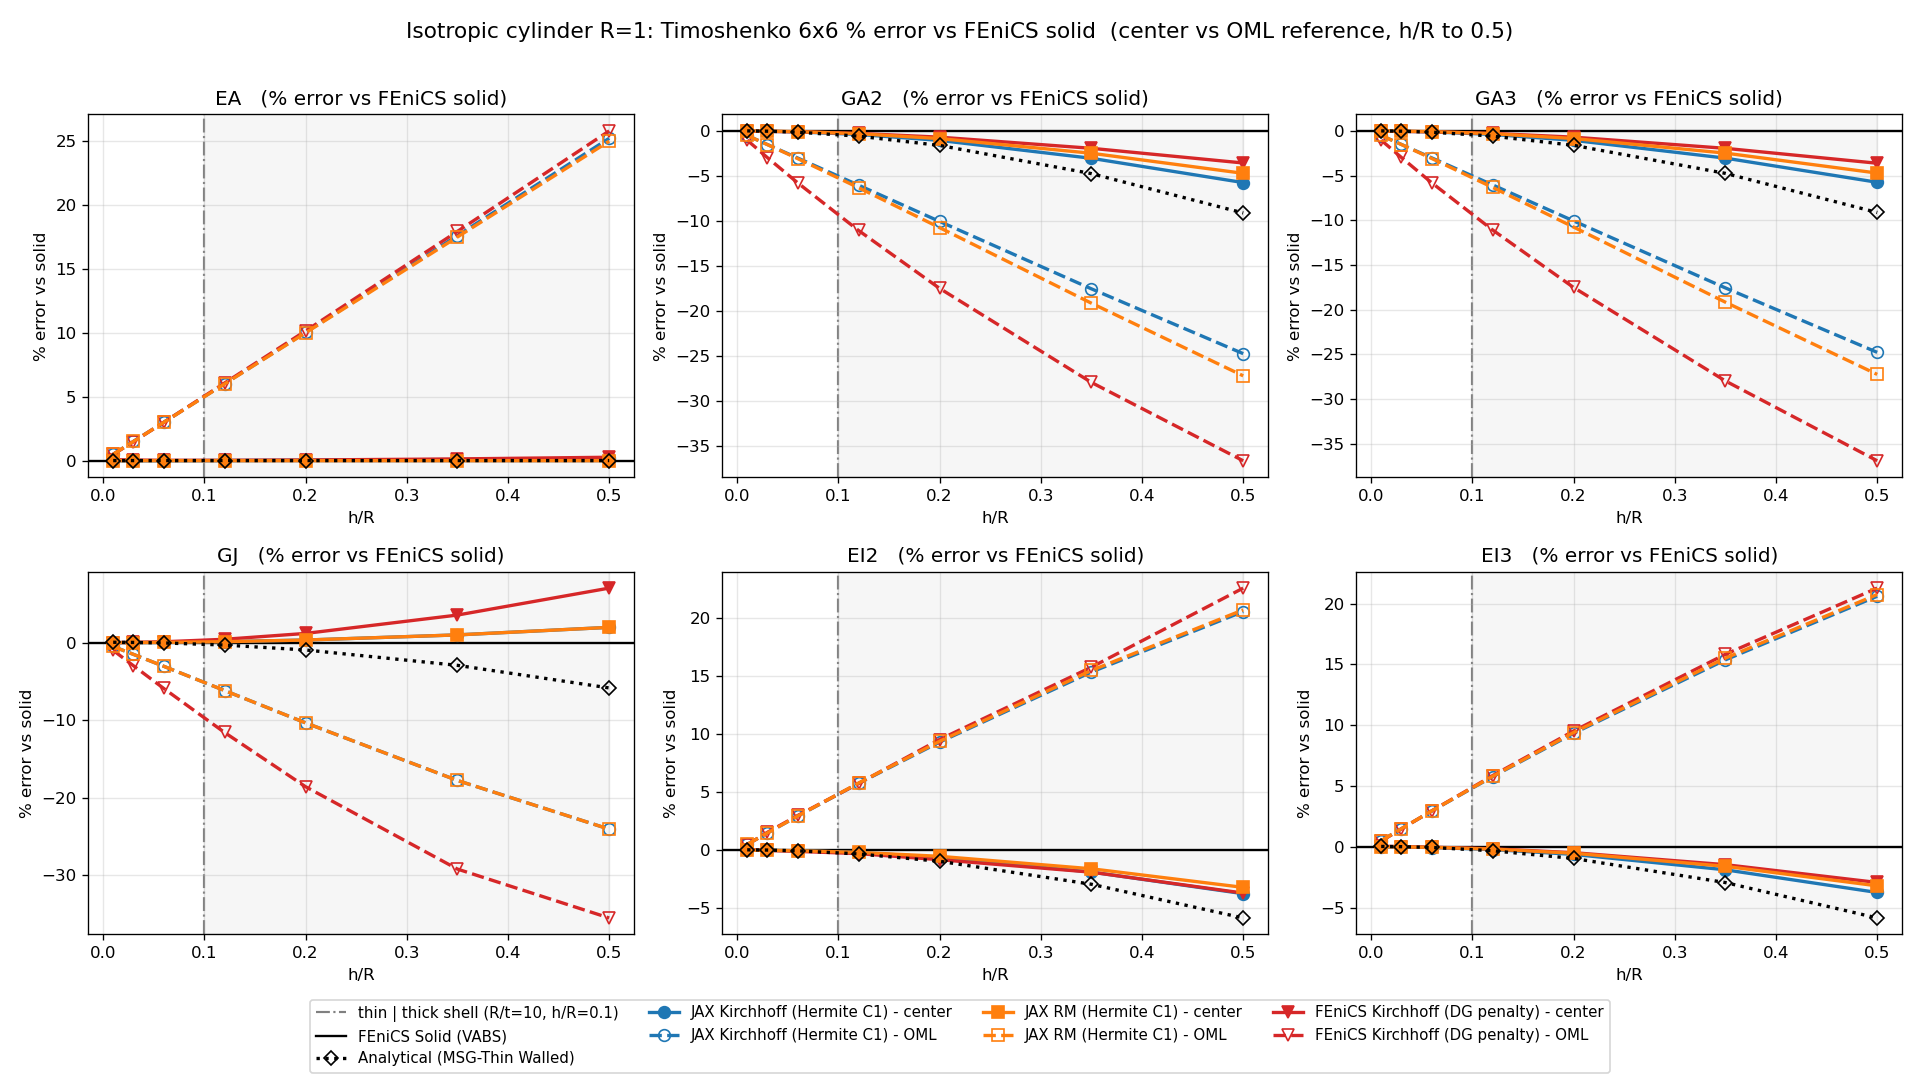
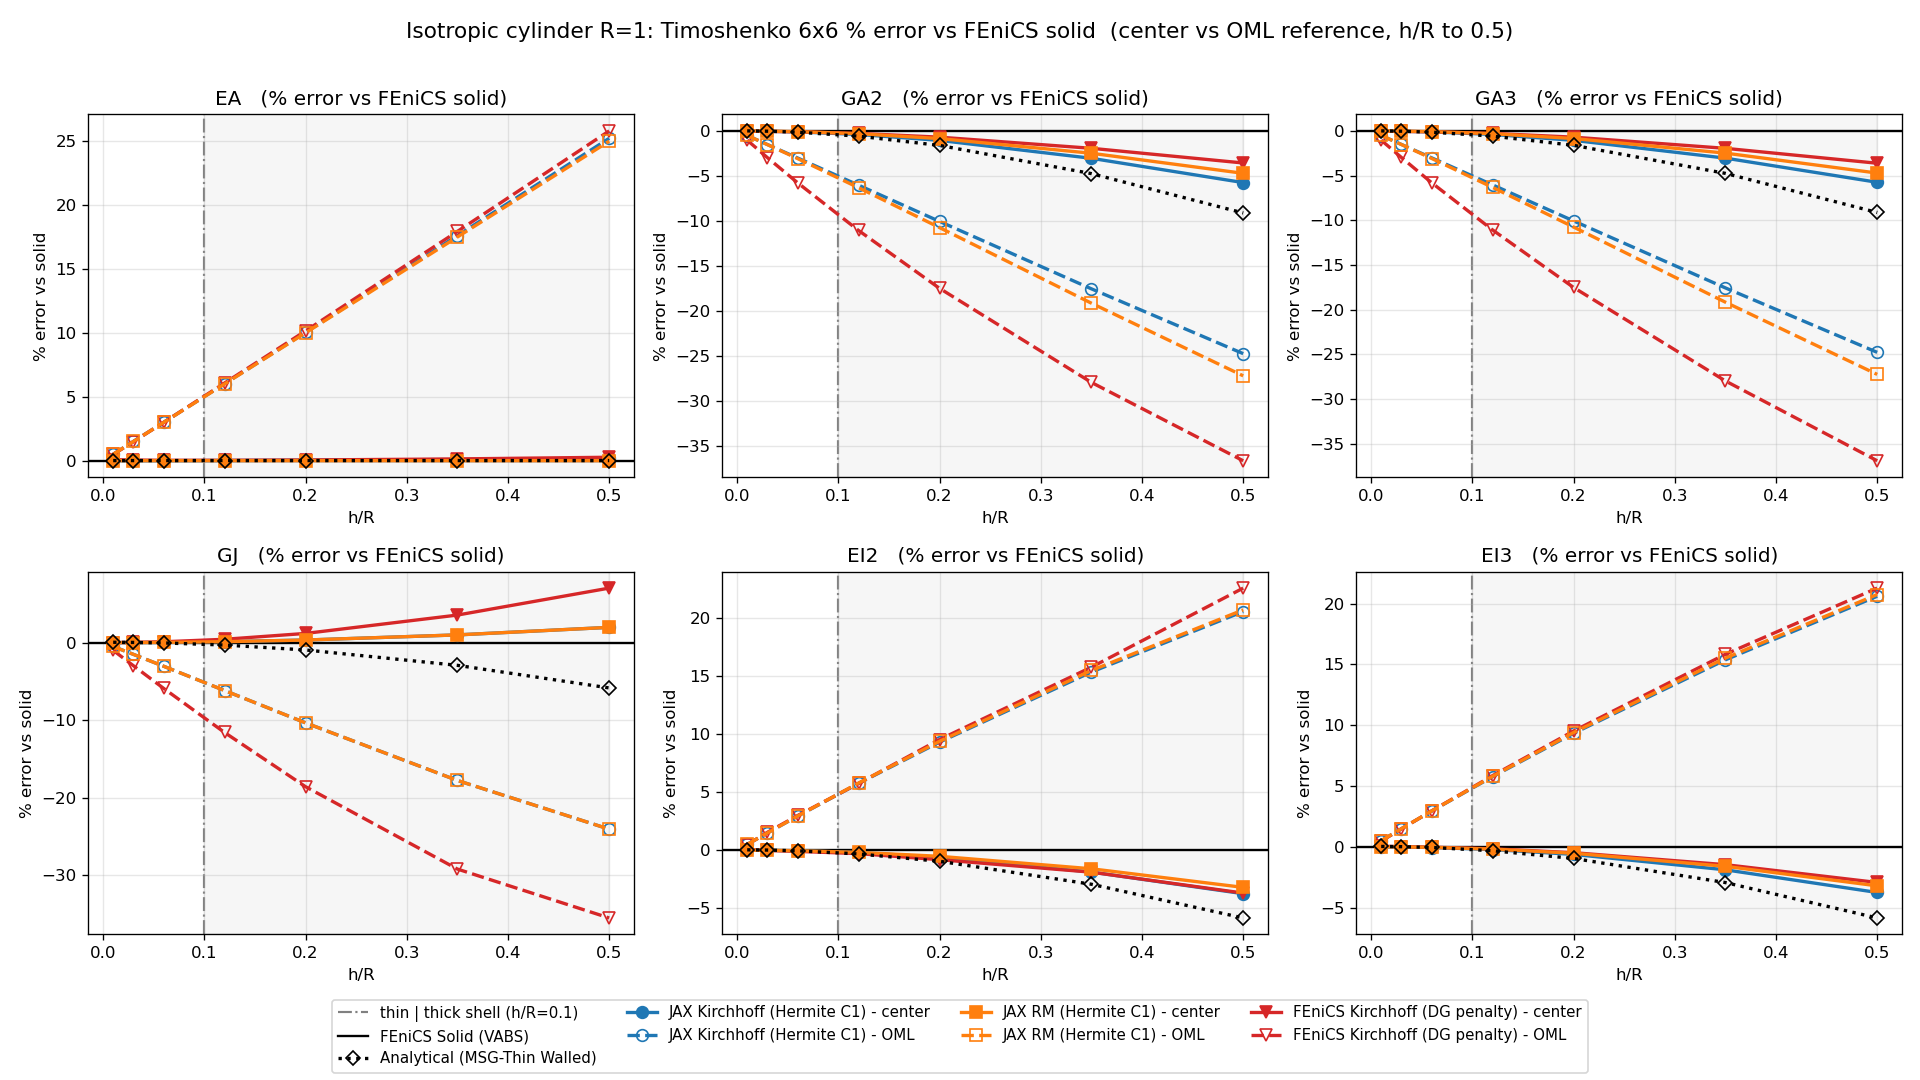
isotropic_tube: plot uses h/R only (drop R/t from thin|thick marker label)

Changed region(s): [[0.1562, 0.9167, 0.8438, 1.0]]

diff --git a/examples/isotropic_tube/compile_plot.py b/examples/isotropic_tube/compile_plot.py
@@ -75,7 +75,7 @@ for j, nm in enumerate(NAMES):
     # h/R > 0.1 (shaded) is the conventional THICK-shell regime.
     a.axvspan(0.1, 0.5, color="gray", alpha=0.07, zorder=0)
     a.axvline(0.1, color="gray", ls="-.", lw=1.3, zorder=1,
-              label="thin | thick shell (R/t=10, h/R=0.1)")
+              label="thin | thick shell (h/R=0.1)")
     a.axhline(0, color="k", lw=1.4, label="FEniCS Solid (VABS)")
     a.plot(hR, 100.0 * (analytical(j) - s) / s, color="k", ls=":", lw=2.0, marker="D",
            ms=6, mfc="none", label="Analytical (MSG-Thin Walled)", zorder=5)
